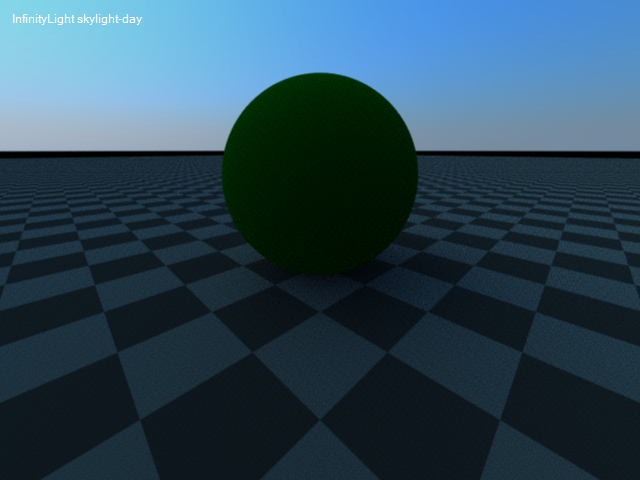
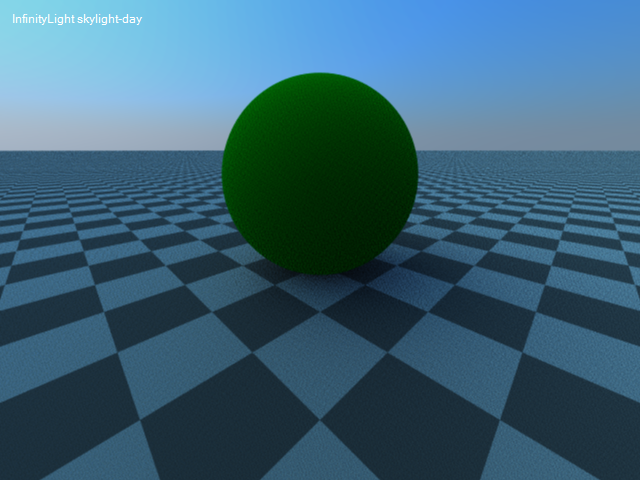
Chap 12.6: Infinite Area Lights (add amplification factor)

diff --git a/pbrt/pbrt/Lights/InfiniteAreaLight.cs b/pbrt/pbrt/Lights/InfiniteAreaLight.cs
@@ -8,10 +8,11 @@ namespace pbrt.Lights;
 
 public class InfiniteAreaLight : Light
 {
-    public  MipMap Lmap { get; private set;}
+    public MipMap Lmap { get; private set;}
     public Point3F WorldCenter { get; private set;}
     public float WorldRadius { get; private set;}
     public Distribution2D Distribution { get; private set; }
+    public SampledSpectrum L { get; set; }
 
     protected InfiniteAreaLight(Transform lightToWorld, int nSamples) : base(LightFlags.Infinite, lightToWorld, null, nSamples)
     {
@@ -33,7 +34,7 @@ public class InfiniteAreaLight : Light
     private void Init(MipMap mipMap, SampledSpectrum l)
     {
         Lmap = mipMap;
-
+        L = l;
         // Initialize sampling PDFs for infinite area light 
         // Compute scalar - valued image img from environment map 
         int width = mipMap.Resolution.X;
@@ -52,7 +53,6 @@ public class InfiniteAreaLight : Light
                 var floats = rgbSpectrum.ToRgb();
                 var sampledSpectrum = SampledSpectrum.FromRgb(floats, SpectrumType.Illuminant);
                 var spectrum = new Spectrum(sampledSpectrum);
-                spectrum.Mul(l);
                 
                 img[u + v * width] = spectrum.Y();
                 img[u + v * width] *= sinTheta;
@@ -68,6 +68,7 @@ public class InfiniteAreaLight : Light
         var rgbSpectrum = Lmap.Lookup(new Point2F(.5f, .5f), .5f);
         var f = MathF.PI * WorldRadius * WorldRadius;
         rgbSpectrum.Mul(f);
+        rgbSpectrum.Mul(L);
         return new Spectrum(rgbSpectrum, SpectrumType.Illuminant);
     }
 
@@ -75,7 +76,9 @@ public class InfiniteAreaLight : Light
     {
         var w = WorldToLight.Apply(ray.D).Normalized();
         Point2F st = new(MathUtils.SphericalPhi(w) * MathUtils.Inv2PI, MathUtils.SphericalTheta(w) * MathUtils.InvPI);
-        return new Spectrum(Lmap.Lookup(st, 0), SpectrumType.Illuminant);
+        var rgbSpectrum = Lmap.Lookup(st, 0);
+        //rgbSpectrum.Mul(L);
+        return new Spectrum(rgbSpectrum, SpectrumType.Illuminant);
     }    
 
     public override Spectrum Sample_Li(Interaction interaction, Point2F u, out Vector3F wi, out float pdf, out VisibilityTester vis)
@@ -108,7 +111,10 @@ public class InfiniteAreaLight : Light
 
         // Return radiance value for infinite light direction 
         vis = new VisibilityTester(interaction, new Interaction(interaction.P + wi * (2 * WorldRadius), interaction.Time, MediumInterface));
-        return new Spectrum(Lmap.Lookup(uv, 0), SpectrumType.Illuminant);    
+        var rgbSpectrum = Lmap.Lookup(uv, 0);
+        rgbSpectrum.Mul(L);
+
+        return new Spectrum(rgbSpectrum, SpectrumType.Illuminant);    
     }
 
     public override float Pdf_Li(Interaction interaction, Vector3F wi)

diff --git a/pbrt/Pbrt.Demos/Scenes/InfinityLightScene.cs b/pbrt/Pbrt.Demos/Scenes/InfinityLightScene.cs
@@ -11,7 +11,7 @@ public class InfinityLightScene : DemoScene
         Floor();
         var lightPath = $"Pbrt.Demos.Lights.{lightName}.png";
         var stream = GetResource(lightPath); 
-        InfiniteAreaLight light = new InfiniteAreaLight(lightPath, stream, new Spectrum(1000), RotateY(rotYDeg)* RotateX(-90));
+        InfiniteAreaLight light = new InfiniteAreaLight(lightPath, stream, new Spectrum(2), RotateY(rotYDeg)* RotateX(-90));
         AllLights.Add(light);
     }
 }

diff --git a/pbrt/Pbrt.Demos/Demos/InfinityLightDemo.cs b/pbrt/Pbrt.Demos/Demos/InfinityLightDemo.cs
@@ -26,7 +26,7 @@ public abstract class AbstractInfinityLightDemo : AbstractDemo
         SamplerConfig = new SamplerConfig
         {
             Sampler = Configs.Sampler.Halton,
-            Config = new HaltonSamplerConfig { SamplesPerPixel = 1 << 4 }
+            Config = new HaltonSamplerConfig { SamplesPerPixel = 1 << 5 }
         };
 
         IntegratorConfig = new IntegratorConfig
